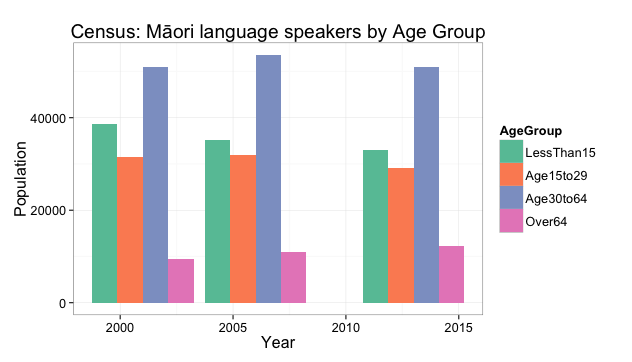
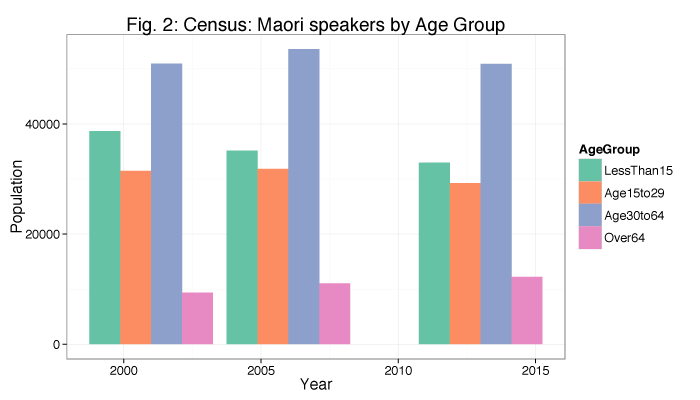
Update

Changed region(s): [[0.0, 0.0304, 0.962, 0.9724]]

diff --git a/mstats01.html b/mstats01.html
@@ -1,0 +1,100 @@
+<!DOCTYPE HTML PUBLIC "-//W3C//DTD HTML 4.01 Transitional//EN">
+
+<html>
+<head>
+<meta charset="UTF-8"> 
+<title>Maori stats 01</title>
+<style TYPE="text/css"><!--
+    A:link {text-decoration: none; color: #B22222}
+    a:visited {text-decoration: none; color: #4B0082}
+    a:active {text-decoration: none; color: #00008B}
+    a:hover{color: #008B8B}
+    .style1
+    {
+        text-align: justify;
+        text-indent: -17.85pt;
+        line-height: 18.0pt;
+        font-size: 11.0pt;
+        margin-left: 17.85pt;
+        margin-right: 0cm;
+        margin-top: 12.0pt;
+        margin-bottom: .0001pt;
+    }
+    --></style>
+</head>
+
+<body style="margin: 0px; padding: 0px; font-family: 'Trebuchet MS',verdana;">
+
+<table width="100%" style="height: 100%;" cellpadding="10" cellspacing="10" border="5">
+<tr>
+
+<!-- ============ HEADER SECTION ============== -->
+<td colspan="2" style="height: 60px;" bgcolor="#81BEF7">
+<center>
+<h2>1st look at Maori language statistics from New Zealand Census Data</h2> 
+
+(2014-1-7)
+</center>
+</td>
+</tr>
+
+<tr>
+
+<!-- ============ CENTRE COLUMN (CONTENT) ============== -->
+<td width="100%" valign="top" bgcolor="#FFFFFF">
+<h3>Maori language stats from New Zealand Census data (mostly 2001,2006, 2013)</h3>
+<p>	Due to the Christchurch earthquake in 2011, the time series is irregular. 
+	I am interested in trends, not absolute numbers which contain both error and probably 
+	over reporting on the language question.</p> 
+<p>	Figure 1 displays the number of Maori by descent, ethnicity and Maori language 
+	speakers (only those claiming Maori ethnicity), from 1991 and includes a rough 
+	projection to 2021, the most likely date of the next New Zealand census.</p>
+<p><img src="images/ms1plot01.png" alt="Figure 1" class="inline"/></p>
+<p>	Question on language use has only been asked since 2001. Figure 1, shows there has 
+	been a reasonably consistent increase in the number of Maori claiming Maori descent 
+	and Maori ethnicity, but a reasonably steady decrease in the number of Maori language 
+	speakers.</p>
+
+<p>	Figure 2 displays Maori language speakers (only those of Maori ethnicity) by 4 age 
+	groups. This clearly shows that in terms of absolute numbers there have been 
+	reasonably consistent decreases in all age groups (from 2001 to 2013), with the 
+	exception of those of over the age of 64.</p>
+<p><img src="images/ms1plot02.png" alt="Figure 2" class="inline"/></p>
+
+<p>	Figure 3 displays the number of Maori language speakers by Region, from 2001 to 2013.
+	There was a consistent decrease across all regions since 2006. The Bay of Plenty, 
+	Gisborne, Waikato and Northland have always had large Maori populations. Auckland 
+	now has a large number of Maori residents as a result of internal migration. </p>
+<p><img src="images/ms1plot03.png" alt="Figure 3" class="inline"/></p>
+
+<p> Figure 4 displays the percentage of Maori language speakers by region. I.e., 
+	what percentage of the Maori population (in that region) claim to be speakers of 
+	Maori. There are larger percentages of Maori speakers where there are higher 
+	percentages of Maori, although the reasons for this are historic and largely reflect 
+	delayed language shift in rural areas where Maori communities are still intact.</p>
+<p><img src="images/ms1plot04.png" alt="Figure 4" class="inline"/> </p>
+
+<p>	Figure 5 displays percentage of speakers by the percentage of the population for 
+	each region as a scatter plot. In some ways this is kind of collapsing or 
+	combining figures 3 and 4. There is a positive correlation between these variables.</p>
+<p><img src="images/ms1plot05.png" alt="Figure 5" class="inline"/></p>
+
+<p>	In some cases regional analyses can be misleading, as there is a lot of 
+	variation in regions such as Auckland and the Bay of Plenty. This needs to be explored 
+	by looking at next level, i.e., District Councils (yes I am planning to do this).</p>
+
+<p>	Where to from here ? I'll look at iwi (Maori tribes), and 'defacto' social class measures 
+	such as income and education.</p>
+
+<p></p>
+<p>	Figures were done in <a href="http://r-project.org"> R </a> (ggplot2) using 
+	<a href="http://rstudio.com"> RStudio </a>on a MacBook Pro. Github repo is 
+	<a href="https://github.com/peterjkeegan/MaoriStats01.git">here</a>. Figures were
+	exported from R as PDFs and then re-sized in Illustrator.</p>
+<p><a href="index.htm"><h4>Home</h4></a></p>
+</td>
+</tr>
+</table>
+</body>
+</html>
+

diff --git a/index.html b/index.html
@@ -43,10 +43,10 @@
 <!-- ============ CENTRE COLUMN (CONTENT) ============== -->
 <td width="100%" valign="top" bgcolor="#FFFFFF">
 <h3> Easier link to my GitHub pages.</h3>
-<p>I am interested in the New Zealand 2013 census data, especially on changes in Maori language usage.</p>
-<p>See my first efforts in attempting to understand what the data says <a href="https://github.com/peterjkeegan/MaoriStats01.git">here</a>.</p>
-<p>Plots were done in <a href="http://r-project.org"> R </a> (ggplot2) using 
-	<a href="http://rstudio.com"> RStudio </a>on a MacBook Pro. </p>
+<p>I am interested in the New Zealand 2013 census data, especially on changes in Maori 
+	language usage.</p>
+<p>See my first efforts in attempting to understand what the data says 
+	<a href="mstats01.htm">here </a>.</p>
 <p></p>
 </td>
 </tr>
